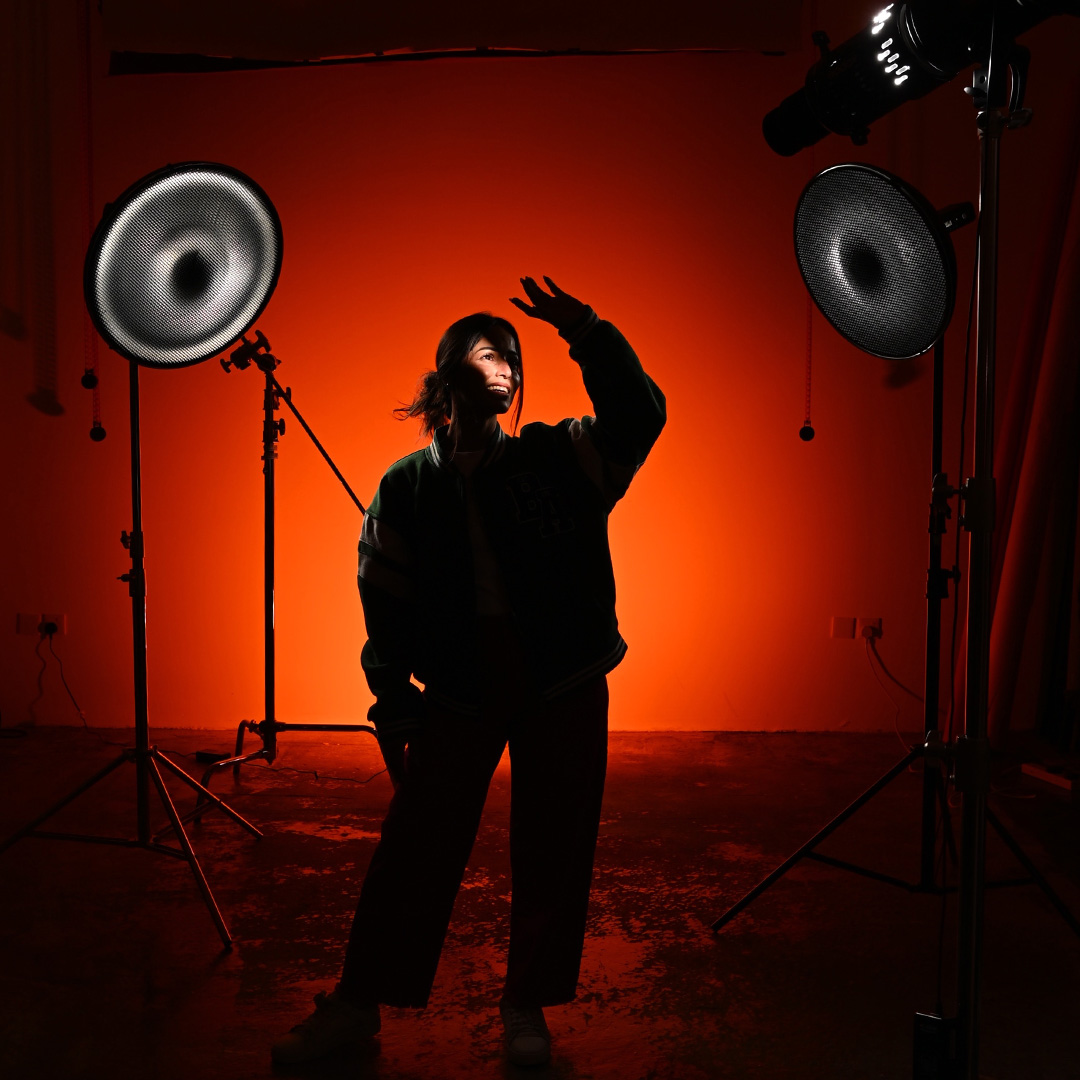
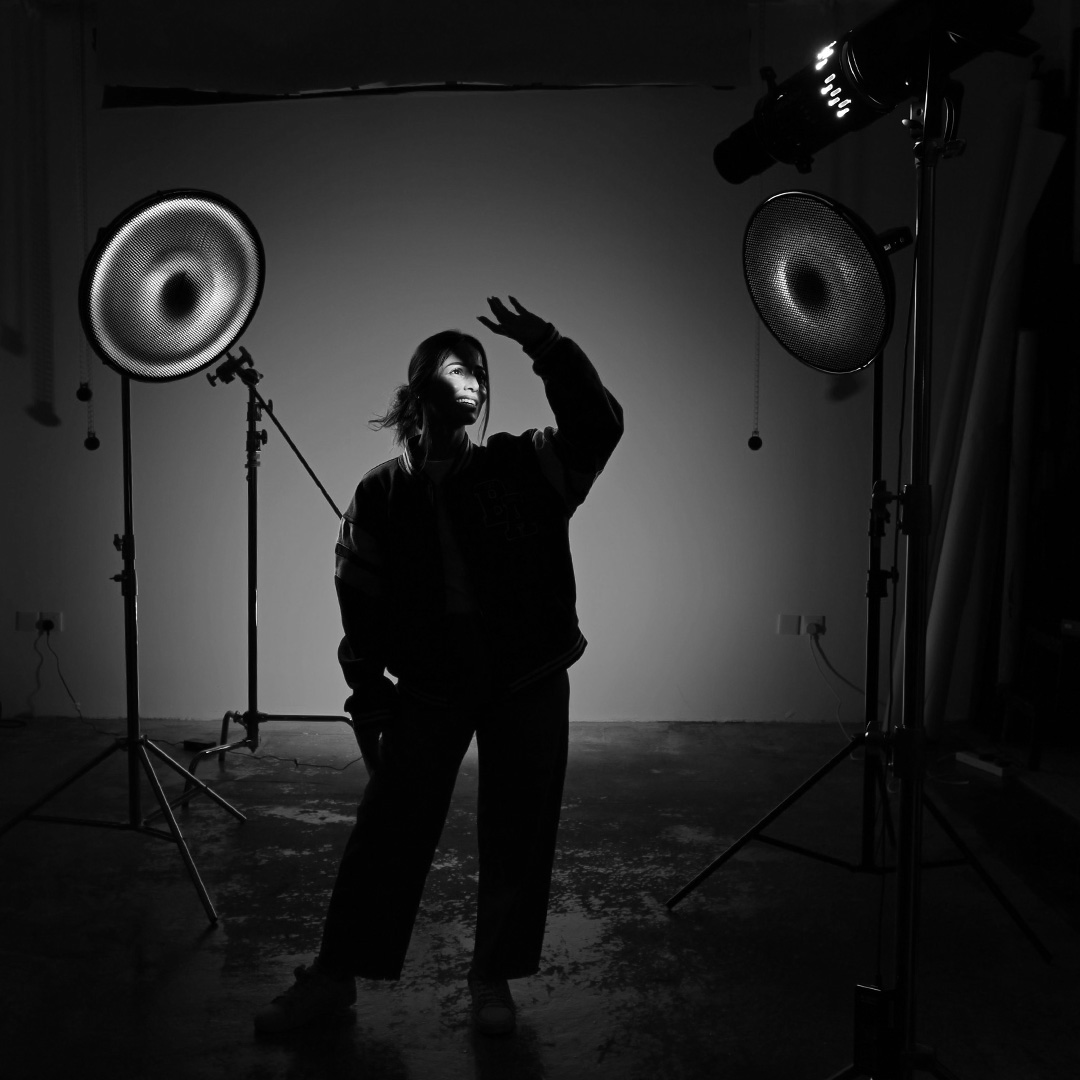
fix(images): update image formats and paths for production and studios sections

diff --git a/src/components/home/production-section.tsx b/src/components/home/production-section.tsx
@@ -95,8 +95,8 @@ export function ProductionSection() {
           <Reveal delay={150} className="order-1 lg:order-2">
             <div className="group relative aspect-[4/3] w-full overflow-hidden rounded-2xl border border-charcoal-200/80 bg-charcoal-900 shadow-lg shadow-charcoal-900/5 sm:aspect-[16/11]">
               <Image
-                src={images.corporate.src}
-                alt={images.corporate.alt}
+                src="/images/corporate-training.jpeg"
+                alt="Training Image"
                 fill
                 sizes="(max-width: 1024px) 100vw, 50vw"
                 className="object-cover transition-transform duration-700 ease-out group-hover:scale-105"

diff --git a/src/components/home/studios-section.tsx b/src/components/home/studios-section.tsx
@@ -37,7 +37,7 @@ export function StudiosSection() {
           <Reveal>
             <div className="group relative aspect-[4/3] w-full overflow-hidden rounded-2xl border border-charcoal-200/80 bg-charcoal-900 shadow-lg shadow-charcoal-900/5 sm:aspect-[16/11]">
               <Image
-                src="/images/about-studio.jpg"
+                src="/images/about-studio.jpeg"
                 alt="استوديو التصوير والتدريب"
                 fill
                 sizes="(max-width: 1024px) 100vw, 50vw"
